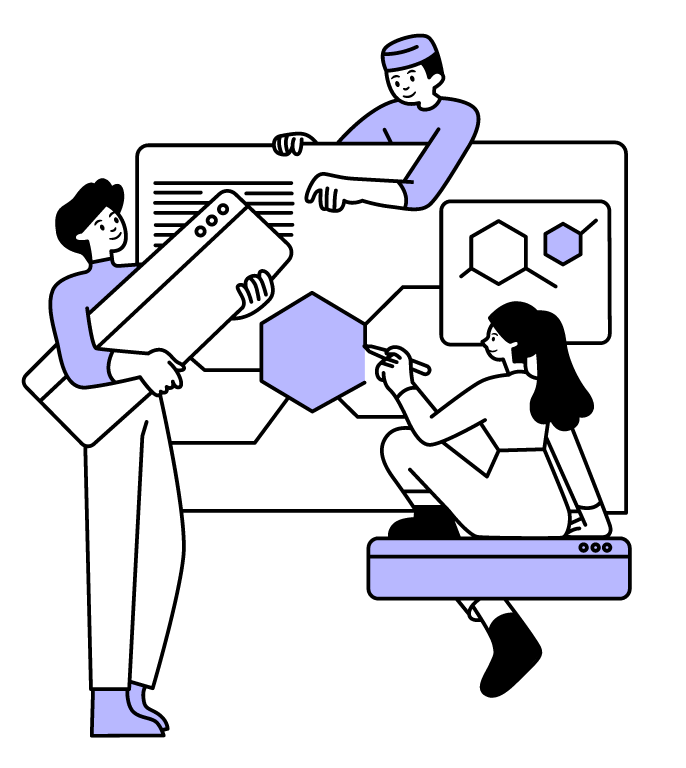
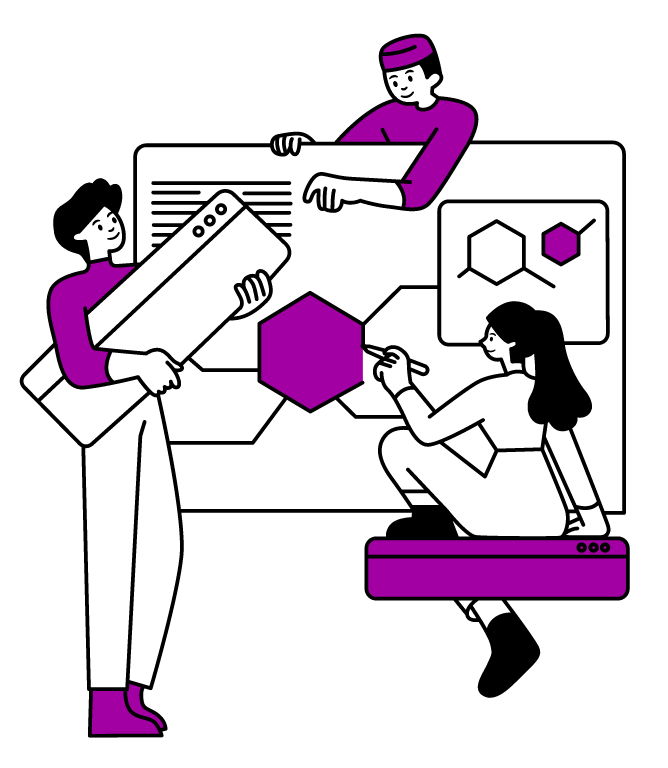
Update color palette

diff --git a/project/templates/index.html b/project/templates/index.html
@@ -4,23 +4,23 @@
 
 {% block content %}
 
-<div class="py-5 " style="background-image:linear-gradient(#9381ff, #ffeedd);">
+<div class="py-5 " style="background-image:linear-gradient(#a200a2, #FFB0B0);">
     <div class="container">
 
         <div class="row mb-3">
-            <div class="col-12 col-md-6 align-items-center d-flex mb-4 px-5 px-md-0">
+            <div class="col-12 col-md-6 align-items-center d-flex mb-4 px-5">
                 <div class="text-center">
-                    <h1 style="color: black;" class="mb-4">
+                    <h1 style="color: white;" class="mb-4">
                         Your partner for stunning, high-performing websites.
                     </h1>
 
-                    <p style="color: black;">
+                    <p style="color: white;">
                         Ready to elevate your online presence? 
                         Let's work together to create a website that truly 
                         represents your brand and helps you achieve your online goals.
                     </p>
 
-                    <a href="#">
+                    <a href="{{ url_for('views.index') }}#contact-form">
                         <button type="button" class="btn btn-primary">Start your project</button>
                     </a>  
                 </div>
@@ -40,11 +40,11 @@
 
 
 
-<div class="py-5" style="background-color: #ffeedd;">
-    <div class="container">
+<div class="py-5" style="background-image:linear-gradient(#FFB0B0, #A200A2);">
+    <div class="container pt-5">
         <div class="row mb-5 text-center">
             <h1 style="color: black;">
-                How We Do Things
+                Our Gameplan
             </h1>
         </div>
     </div>
@@ -52,7 +52,7 @@
     <div class="container pb-5">
         <div class="row mb-3 px-5 px-sm-0">
             <div class="col-sm-12 col-md-4 justify-content-center homepage-cols mb-4">
-                <div class="text-center" data-aos="fade-up" style="background-color: #3F407E; border-radius: 20px; padding: 20px; height: 100%">
+                <div class="text-center" data-aos="fade-up" style="background-color: #2727E1; border-radius: 20px; padding: 20px; height: 100%">
                     <h4 class="mb-4 mt-3" style="color: white">Outline your goals</h4>
                     <i class="fa-solid fa-bullseye" style="color: white; font-size: 60px;"></i>
                     <p class="mt-4" style="color: white">
@@ -62,7 +62,7 @@
             </div>
 
             <div class="col-sm-12 col-md-4 justify-content-center homepage-cols mb-4">
-                <div class="text-center" data-aos="fade-up" style="background-color: #3F407E; border-radius: 20px; padding: 20px; height: 100%;">
+                <div class="text-center" data-aos="fade-up" style="background-color: #2727E1; border-radius: 20px; padding: 20px; height: 100%;">
                     <h4 class="mb-4 mt-3" style="color: white">Build together</h4>
 
                     <i class="fa-solid fa-code" style="color: white; font-size: 60px;"></i>
@@ -75,7 +75,7 @@
             </div>
 
             <div class="col-sm-12 col-md-4 justify-content-center homepage-cols mb-4">
-                <div class="text-center" data-aos="fade-up" style="background-color: #3F407E; border-radius: 20px; padding: 20px; height: 100%;">
+                <div class="text-center" data-aos="fade-up" style="background-color: #2727E1; border-radius: 20px; padding: 20px; height: 100%;">
                     <h4 class="mb-4 mt-3" style="color: white">Deploy and grow</h4>
 
                     <i class="fa-solid fa-rocket" style="color: white; font-size: 60px;"></i>
@@ -91,8 +91,8 @@
 
 
 
-<div class="py-5" style="background-image:linear-gradient(#ffeedd, #9381ff);">
-    <div class="container">
+<div class="py-5" style="background-image:linear-gradient(#A200A2, #FFB0B0);">
+    <div class="container pt-5">
         <div class="row mb-3">
 
             <div class="col-12 col-md-6 align-items-center d-flex justify-content-center order-2 order-md-1">
@@ -106,44 +106,44 @@
 
                     <div class="row">
                         <div class="col-12 text-center mb-4">
-                            <h1 style="color: black;">
-                                Our Expertise
+                            <h1 style="color: white;">
+                                Ways We Can Help
                             </h1>
                         </div>
                     </div>
 
                     <div class="row mb-sm-0 mb-md-3">
-                        <div class="col-md-6 col-sm-12 mb-sm-3">
+                        <div class="col-md-6 col-sm-12 mb-3 mb-sm-3">
                             <div class="text-center p-3" style="background-color: #f8f7ff; border-radius: 20px; height: 100%;">
                                 <p>Responsive Web Applications</p>
 
-                                <i class="fa-solid fa-mobile-screen-button" style="color: #3f407e; font-size: 45px;"></i>
+                                <i class="fa-solid fa-mobile-screen-button" style="color: #A200A2; font-size: 45px;"></i>
                             </div>
                         </div>
 
-                        <div class="col-md-6 col-sm-12 mb-sm-3">
+                        <div class="col-md-6 col-sm-12 mb-3 mb-sm-3">
                             <div class="text-center p-3" style="background-color: #f8f7ff; border-radius: 20px; height: 100%;">
                                 <p>E-Commerce Websites & SEO Strategy</p>
 
-                                <i class="fa-solid fa-cart-shopping" style="color: #3f407e; font-size: 45px;"></i>
+                                <i class="fa-solid fa-cart-shopping" style="color: #A200A2; font-size: 45px;"></i>
                             </div>
                         </div>
                     </div>
 
                     <div class="row mb-sm-0 mb-md-3">
-                        <div class="col-md-6 col-sm-12 mb-sm-3">
+                        <div class="col-md-6 col-sm-12 mb-3 mb-sm-3">
                             <div class="text-center p-3" style="background-color: #f8f7ff; border-radius: 20px; height: 100%;">
                                 <p>Branding and Graphic Design Packages</p>
 
-                                <i class="fa-solid fa-pencil" style="color: #3f407e; font-size: 45px;"></i>
+                                <i class="fa-solid fa-pencil" style="color: #A200A2; font-size: 45px;"></i>
                             </div>
                         </div>
 
-                        <div class="col-md-6 col-sm-12 mb-sm-3">
+                        <div class="col-md-6 col-sm-12 mb-3 mb-sm-3">
                             <div class="text-center p-3" style="background-color: #f8f7ff; border-radius: 20px; height: 100%;">
                                 <p>24/7 Maintenance & Support</p>
 
-                                <i class="fa-solid fa-screwdriver-wrench" style="color: #3f407e; font-size: 45px;"></i>
+                                <i class="fa-solid fa-screwdriver-wrench" style="color: #A200A2; font-size: 45px;"></i>
                             </div>
                         </div>
                     </div>
@@ -170,7 +170,7 @@
 
 
 
-<div class="py-5" style="background-image:linear-gradient(#9381ff, #ffeedd);">
+<div class="py-5" style="background-image:linear-gradient(#FFB0B0, white);">
     <div class="container">
         <div class="row mb-3">
             <div class="text-center">
@@ -228,7 +228,7 @@
 
 
 
-<div style="background-image:linear-gradient(#ffeedd, #9381ff);">
+<div style="background-image:linear-gradient(white, #A200A2);">
     <div class="pb-5 text-center" id="contact-form" style="padding-top: 110px;">
         <div class="container">
             <div id="contact-form-container">

diff --git a/project/static/css/main.css b/project/static/css/main.css
@@ -8,7 +8,7 @@ NAVY: #1D3557
 */
 
 .navbar-custom {
-  background-color: #9381ff;
+  background-color: #a200a2;
 }
 
 
@@ -75,15 +75,15 @@ p, .nav-link, .btn-primary, .footer,
 }
 
 .btn-primary:hover {
-  background-color: #b8b8ff;
+  background-color: #8282FF;
   border-color: black;
-  color: black;
+  color: white;
 }
 
 .btn-reversed {
-  background-color: #b8b8ff;
+  background-color: #8282FF;
   border-color: black;
-  color: black;
+  color: white;
 }
 
 .btn-reversed:hover {
@@ -97,12 +97,9 @@ p, .nav-link, .btn-primary, .footer,
 
 .footer {
   margin-top: auto;
-  background-color: #9381ff;
+  background-color: #A200A2;
 }
 
-.footer-row {
-  width: 100%;
-}
 
 
 /*small screen*/
@@ -117,8 +114,8 @@ p, .nav-link, .btn-primary, .footer,
   }
 
   #expertise {
-    max-width: 100%;
-    max-height: 100%;
+    width: 250px;
+    height: auto;
   }
 
   #navbar-logo {
@@ -139,8 +136,8 @@ p, .nav-link, .btn-primary, .footer,
   }
 
   #expertise {
-    max-width: 100%;
-    max-height: 100%;
+    width: 300px;
+    height: auto;
   }
 
   #navbar-logo {
@@ -161,8 +158,8 @@ p, .nav-link, .btn-primary, .footer,
   }
 
   #expertise {
-    max-width: 100%;
-    max-height: 100%;
+    width: 350px;
+    height: auto;
   }
 
   #navbar-logo {

diff --git a/project/templates/base.html b/project/templates/base.html
@@ -116,14 +116,16 @@
 
         <!--NOT CENTERED!-->
         <div class="footer p-5">
-            <div class="row pb-5 pt-5 footer-row">
-                <div class="col text-center">
-                    <p style="color: white;">
-                        Proud to call San Antonio our Home!
-                    </p>
-                    <p style="color: white;">
-                        &copy; <span id="currentYear"></span> Surmount Web Design & Development - All Rights Reserved
-                    </p>
+            <div class="container">
+                <div class="row pb-5 pt-5">
+                    <div class="col text-center">
+                        <p style="color: white;">
+                            Proud to call San Antonio our Home!
+                        </p>
+                        <p style="color: white;">
+                            &copy; <span id="currentYear"></span> Surmount Web Design & Development - All Rights Reserved
+                        </p>
+                    </div>
                 </div>
             </div>
         </div>

diff --git a/project/templates/about.html b/project/templates/about.html
@@ -4,7 +4,7 @@
 
 {% block content %}
 
-<div class="py-5" style="background-image:linear-gradient(#9381ff, #ffeedd);">
+<div class="py-5" style="background-image:linear-gradient(#2c6e49, #ffc9b9);">
     <div class="container">
 
         <div class="row mb-3">
@@ -27,7 +27,7 @@
                         clients to create customized solutions that meet their needs.
                     </p>
 
-                    <a href="#">
+                    <a href="{{ url_for('views.index') }}#contact-form">
                         <button type="button" class="btn btn-primary">Start your project</button>
                     </a>  
                 </div>
